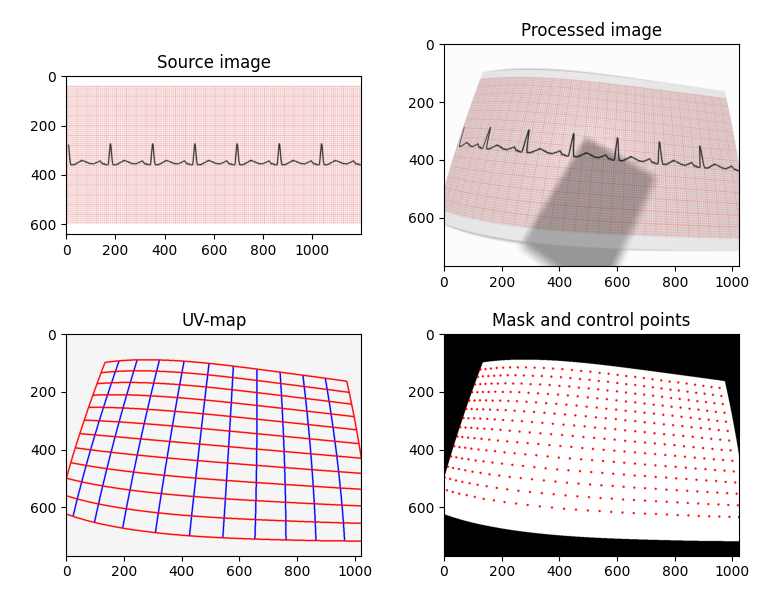
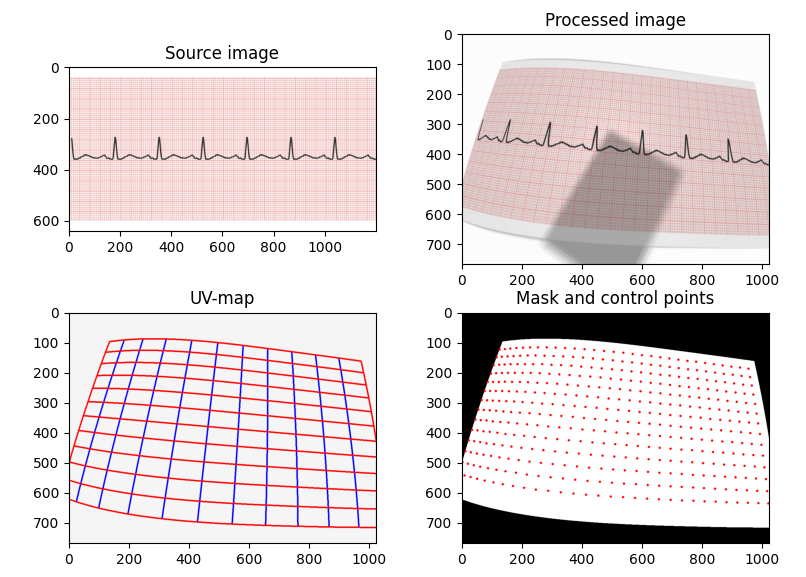
Fix reproject

diff --git a/demo/example_draw_ECG.py b/demo/example_draw_ECG.py
@@ -71,8 +71,8 @@ def draw_ecg_pillow(
     grid_shift_y = random.random() * ppm_hr
 
     cross_points = []
-    n_x = int(math.ceil((w_hr - grid_shift_x) / ppm_hr))
-    n_y = int(math.ceil((h_hr - grid_shift_y) / ppm_hr))
+    n_x = int(math.ceil((w_hr - supersample - grid_shift_x) / ppm_hr))
+    n_y = int(math.ceil((h_hr - supersample - grid_shift_y) / ppm_hr))
     for ix in range(0, n_x, 5):
         x_hr = grid_shift_x + ix * ppm_hr
         for iy in range(0, n_y, 5):

diff --git a/MeshAugmentor.py b/MeshAugmentor.py
@@ -501,7 +501,7 @@ class MeshAugmentor:
             C.byref(dx), C.byref(dy)
         )
         
-        return (output_width / 2) - dx.value, (output_height / 2) - dy.value  if ok else None
+        return ((output_width / 2) - dx.value, (output_height / 2) - dy.value) if ok else None
 
     # -------------------------------- lifecycle -------------------------------
 
